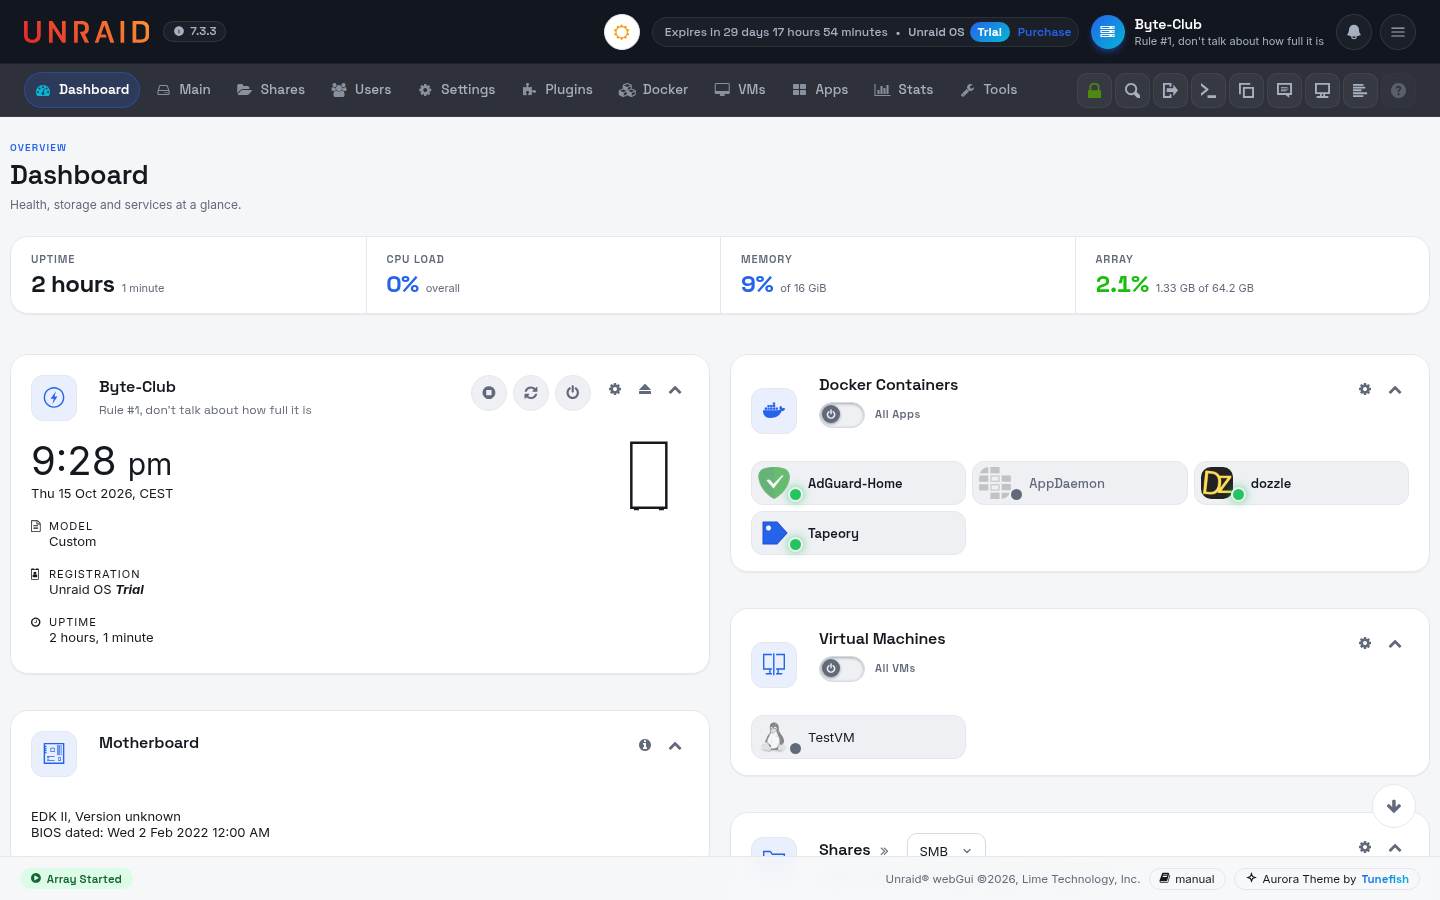
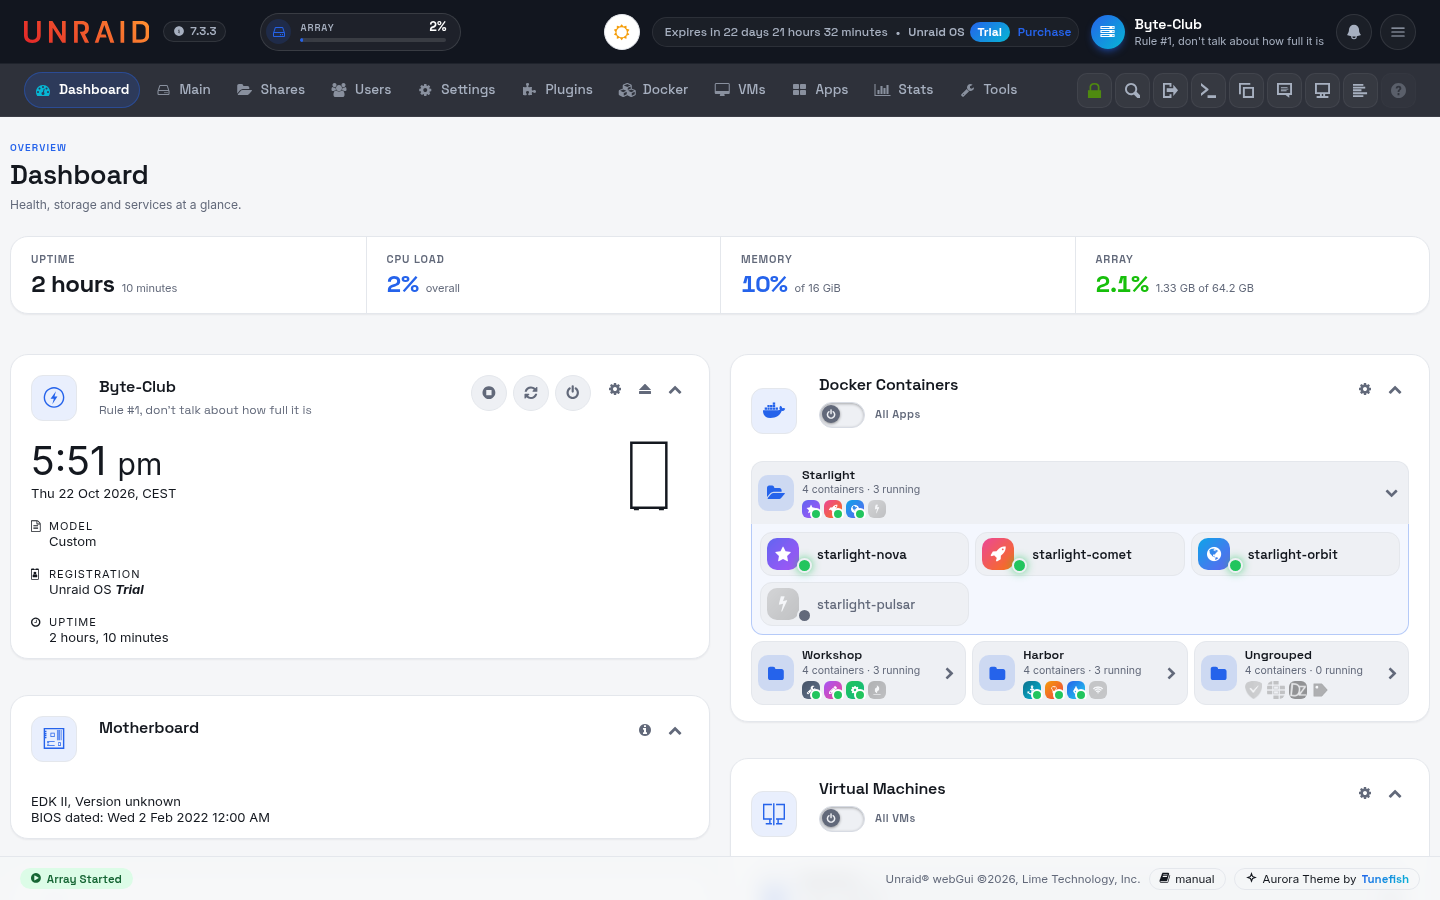
Top layout: array widget in the top bar so Stats and Tools fit; new README screenshots
- With the array usage indicator on (Display Settings), the menu row of the top layout had no
  room left at 1440px and Stats and Tools were out of view. On wide screens the widget now sits
  in the top bar after Unraid's logo (moving back when the window narrows), in colours taken
  from the top bar, so it also reads well in the light palette.
- README: all screenshots retaken on the test server with demo data (groups with their own
  icons, two VMs, two GPUs), plus new VMs and GPU shots.

diff --git a/plugin/src/scripts/enhance.js b/plugin/src/scripts/enhance.js
@@ -2252,7 +2252,24 @@
     widget.append(icon, body);
 
     native.classList.add('tp-native-hidden');
-    native.parentElement.prepend(widget);
+    // Where it goes: with the menu as a bar across the top of a wide screen, the menu row has no
+    // room left (Stats and Tools were pushed out of view), so it sits in the top bar after
+    // Unraid's logo; in the sidebar and on phones it stays with the quick actions.
+    const row = native.parentElement;
+    const wide = window.matchMedia('(min-width: 1024px)');
+    const place = function () {
+      const header = document.getElementById('header');
+      const logo = header && header.querySelector(':scope > unraid-header-os-version');
+      const inHeader = Boolean(logo) && wide.matches && document.documentElement.classList.contains('tp-topbar');
+      widget.classList.toggle('tp-usage-header', inHeader);
+      if (inHeader) {
+        if (widget.previousElementSibling !== logo) logo.after(widget);
+      } else if (widget.parentElement !== row) {
+        row.prepend(widget);
+      }
+    };
+    place();
+    wide.addEventListener('change', place);
   }
 
   // Menu: when the next page takes a moment to arrive (Docker with many containers), "Opening

diff --git a/plugin/src/styles/enhance.css b/plugin/src/styles/enhance.css
@@ -344,6 +344,29 @@
     background: color-mix(in srgb, var(--tp-usage-tone) 10%, transparent);
 }
 
+/* In the top bar (top layout on wide screens), after Unraid's logo: a pill as tall as the bar's
+   round buttons. */
+#header > .tp-usage.tp-usage-header {
+    align-self: center;
+    width: 18rem;
+    height: 3.6rem;
+    margin: 0 auto 0 2.4rem;
+    padding: 0 1.4rem 0 0.5rem;
+    /* From the top bar's own text colour: the bar stays dark in the light palette, and custom
+       header colours (Display Settings) are followed. */
+    border-color: color-mix(in srgb, var(--tp-header-text, #ffffff) 12%, transparent);
+    border-radius: 999px;
+    background: color-mix(in srgb, var(--tp-header-text, #ffffff) 5%, transparent);
+}
+
+#header > .tp-usage.tp-usage-header .tp-usage-track {
+    background: color-mix(in srgb, var(--tp-header-text, #ffffff) 12%, transparent);
+}
+
+#header > .tp-usage.tp-usage-header .tp-usage-icon {
+    border-radius: 50%;
+}
+
 .tp-usage-good { --tp-usage-tone: var(--tp-success-text, #22c55e); }
 .tp-usage-warn { --tp-usage-tone: var(--tp-warn-text, #f59e0b); }
 .tp-usage-danger { --tp-usage-tone: var(--tp-danger, #ef4444); }

diff --git a/README.md b/README.md
@@ -7,7 +7,7 @@
 
 A modern theme plugin for the Unraid webGUI: new colours and fonts, an optional sidebar layout, a card-based Dashboard, a redesigned Main page, a compact Docker list with groups, and a built-in Stats page. Dark and light, with a one-click switch, and it works on phones.
 
-![Dashboard with the Aurora Theme, dark palette and top bar](docs/screenshots/dashboard-dark.png)
+![Dashboard with the Aurora Theme, dark palette and top bar: summary strip, server card and Docker groups with their app icons](docs/screenshots/dashboard-dark.png)
 
 | Light palette | Sidebar layout |
 | --- | --- |
@@ -17,9 +17,13 @@ A modern theme plugin for the Unraid webGUI: new colours and fonts, an optional 
 | --- | --- |
 | ![Settings page with a favourites section and a search field](docs/screenshots/settings-favourites.png) | ![Array Operation as cards: array status, parity check, last check, disks, mover and power](docs/screenshots/array-operation.png) |
 
-| Docker | Apps |
+| Docker | VMs |
 | --- | --- |
-| ![Docker list with totals, filters, search and a WebUI button per container](docs/screenshots/docker.png) | ![Apps tab with a nav menu, a centred search and app cards with spotlight badges](docs/screenshots/apps.png) |
+| ![Docker list with totals, filters, search, the Aurora / FolderView3 switch and collapsible groups with their app icons](docs/screenshots/docker.png) | ![VMs tab with groups, a buttons column and the Aurora / FolderView3 switch](docs/screenshots/vms.png) |
+
+| GPUs on the Dashboard | Apps |
+| --- | --- |
+| ![Two GPU tiles with load, memory, clocks, fan and power bars, and the apps using the GPU as icons](docs/screenshots/gpu.png) | ![Apps tab with a nav menu, a centred search and app cards with spotlight badges](docs/screenshots/apps.png) |
 
 | Tools | Login page |
 | --- | --- |
